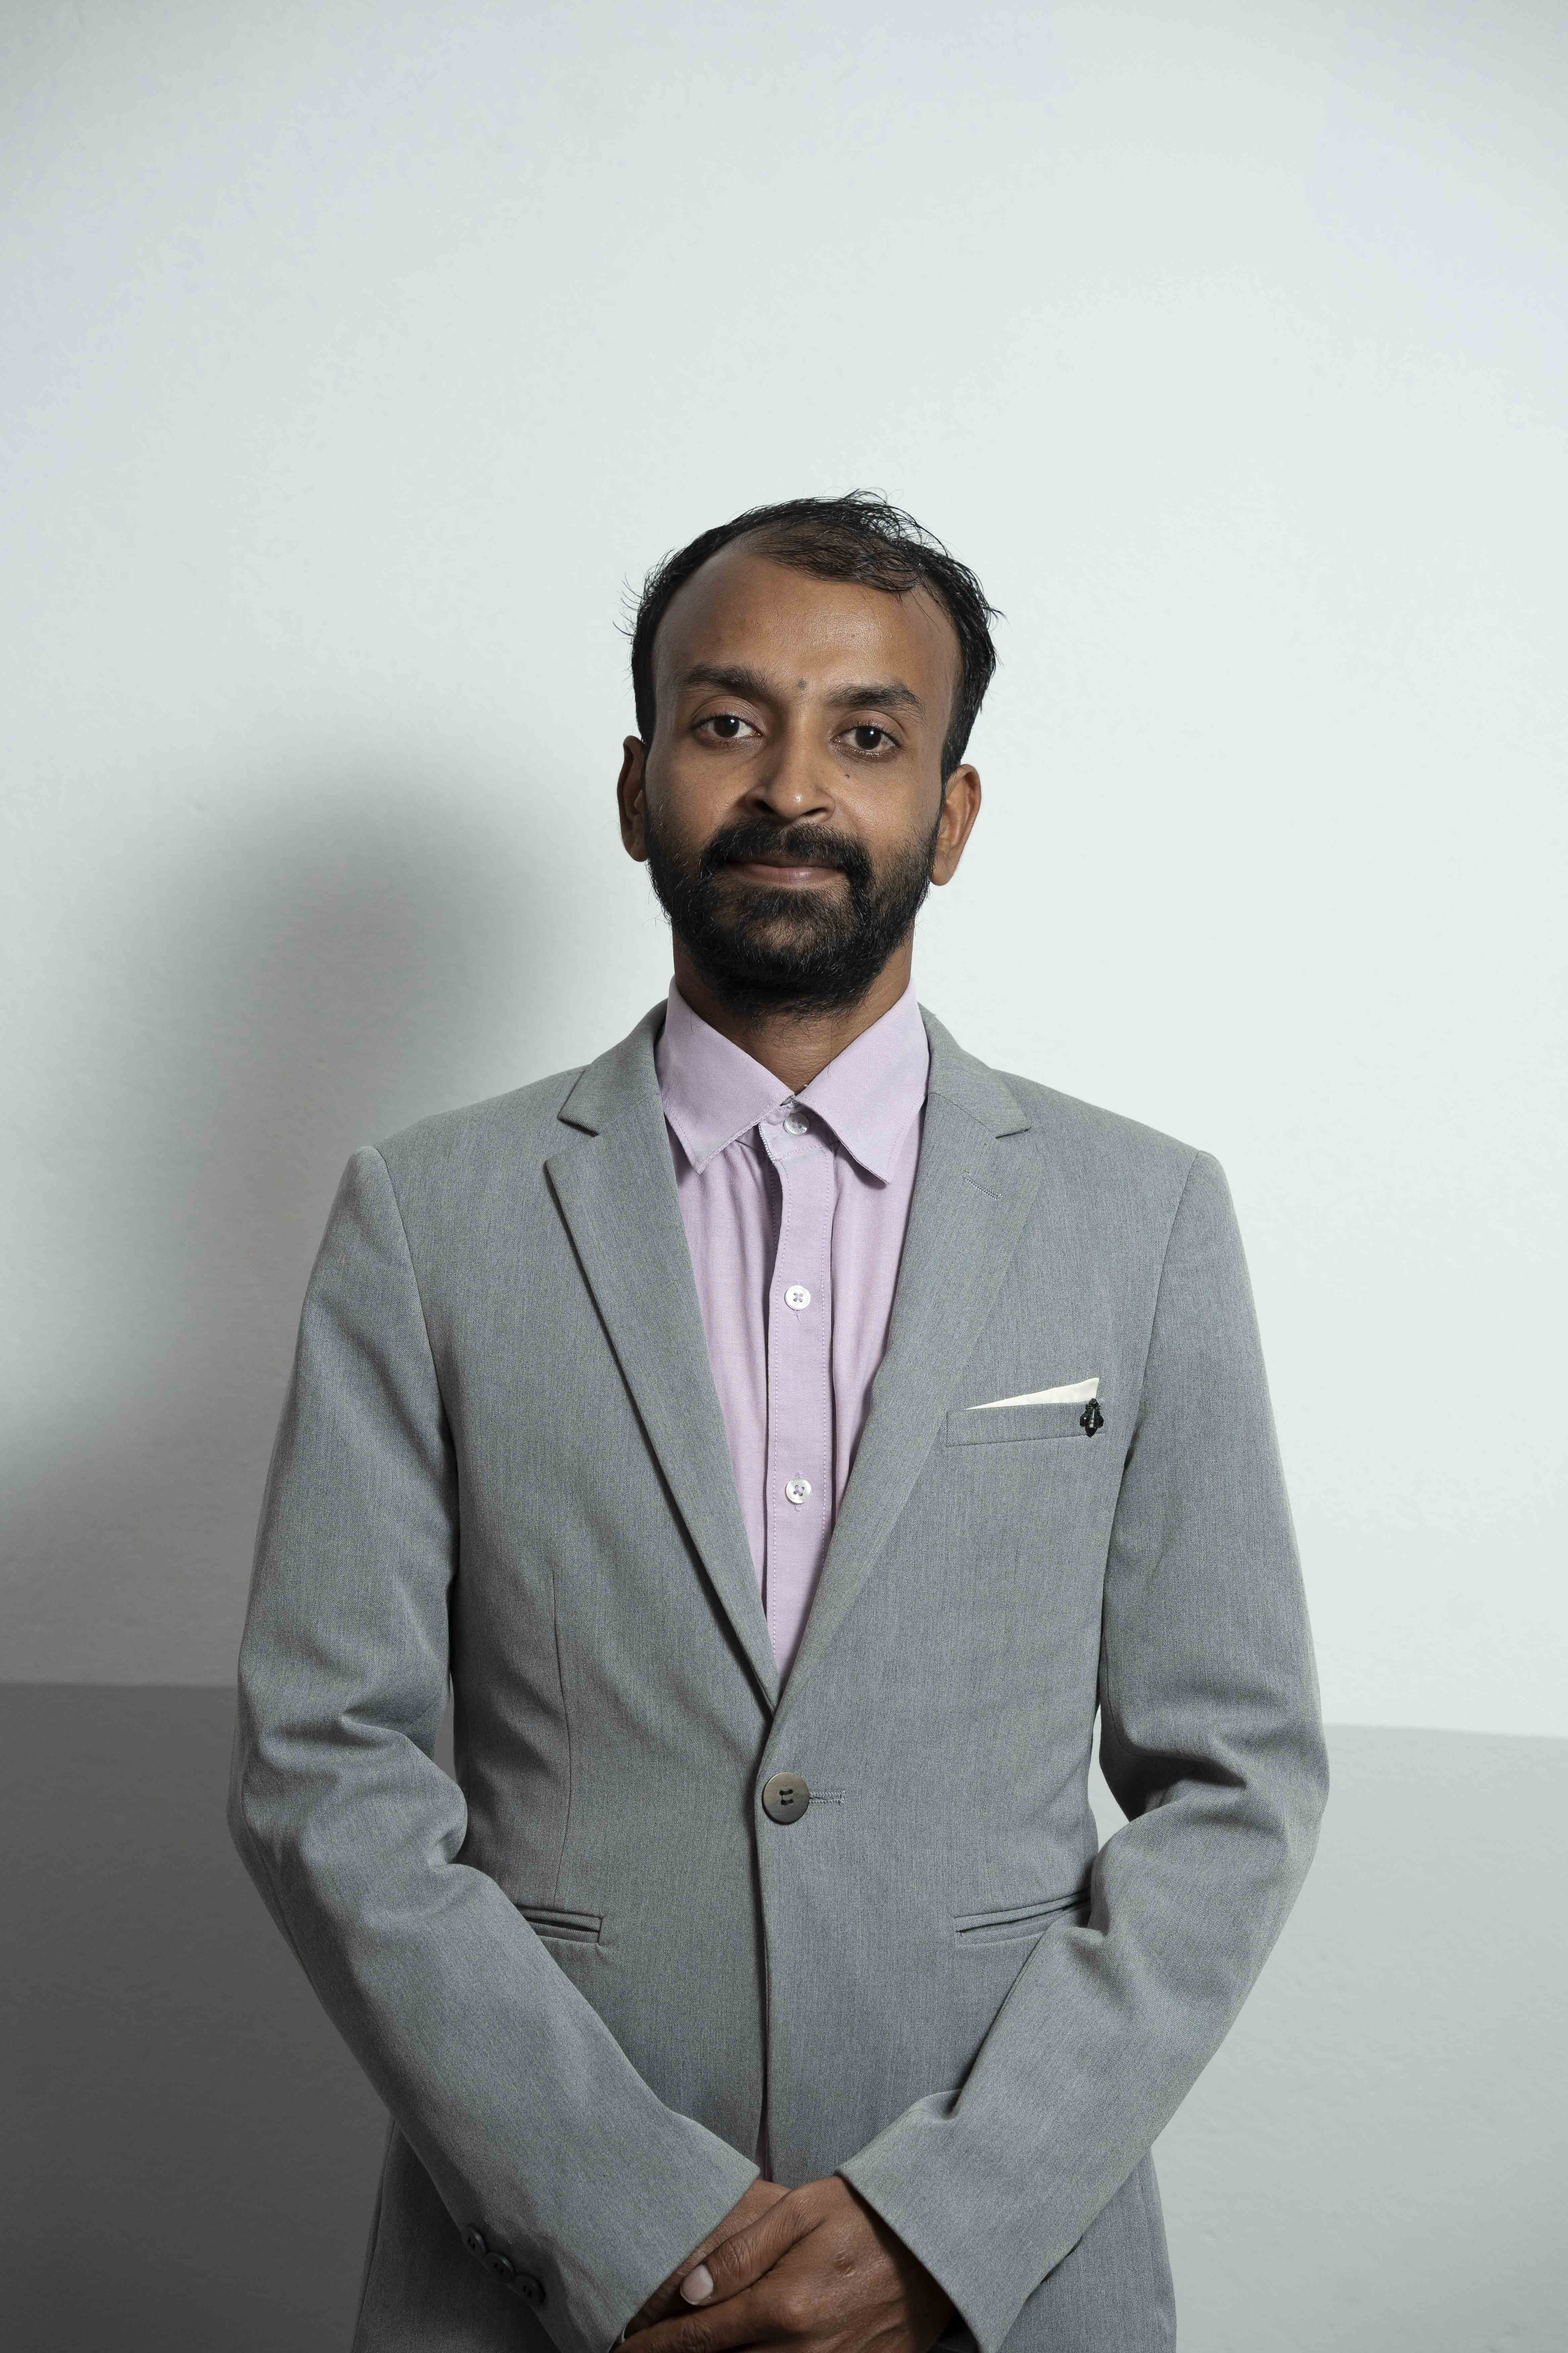
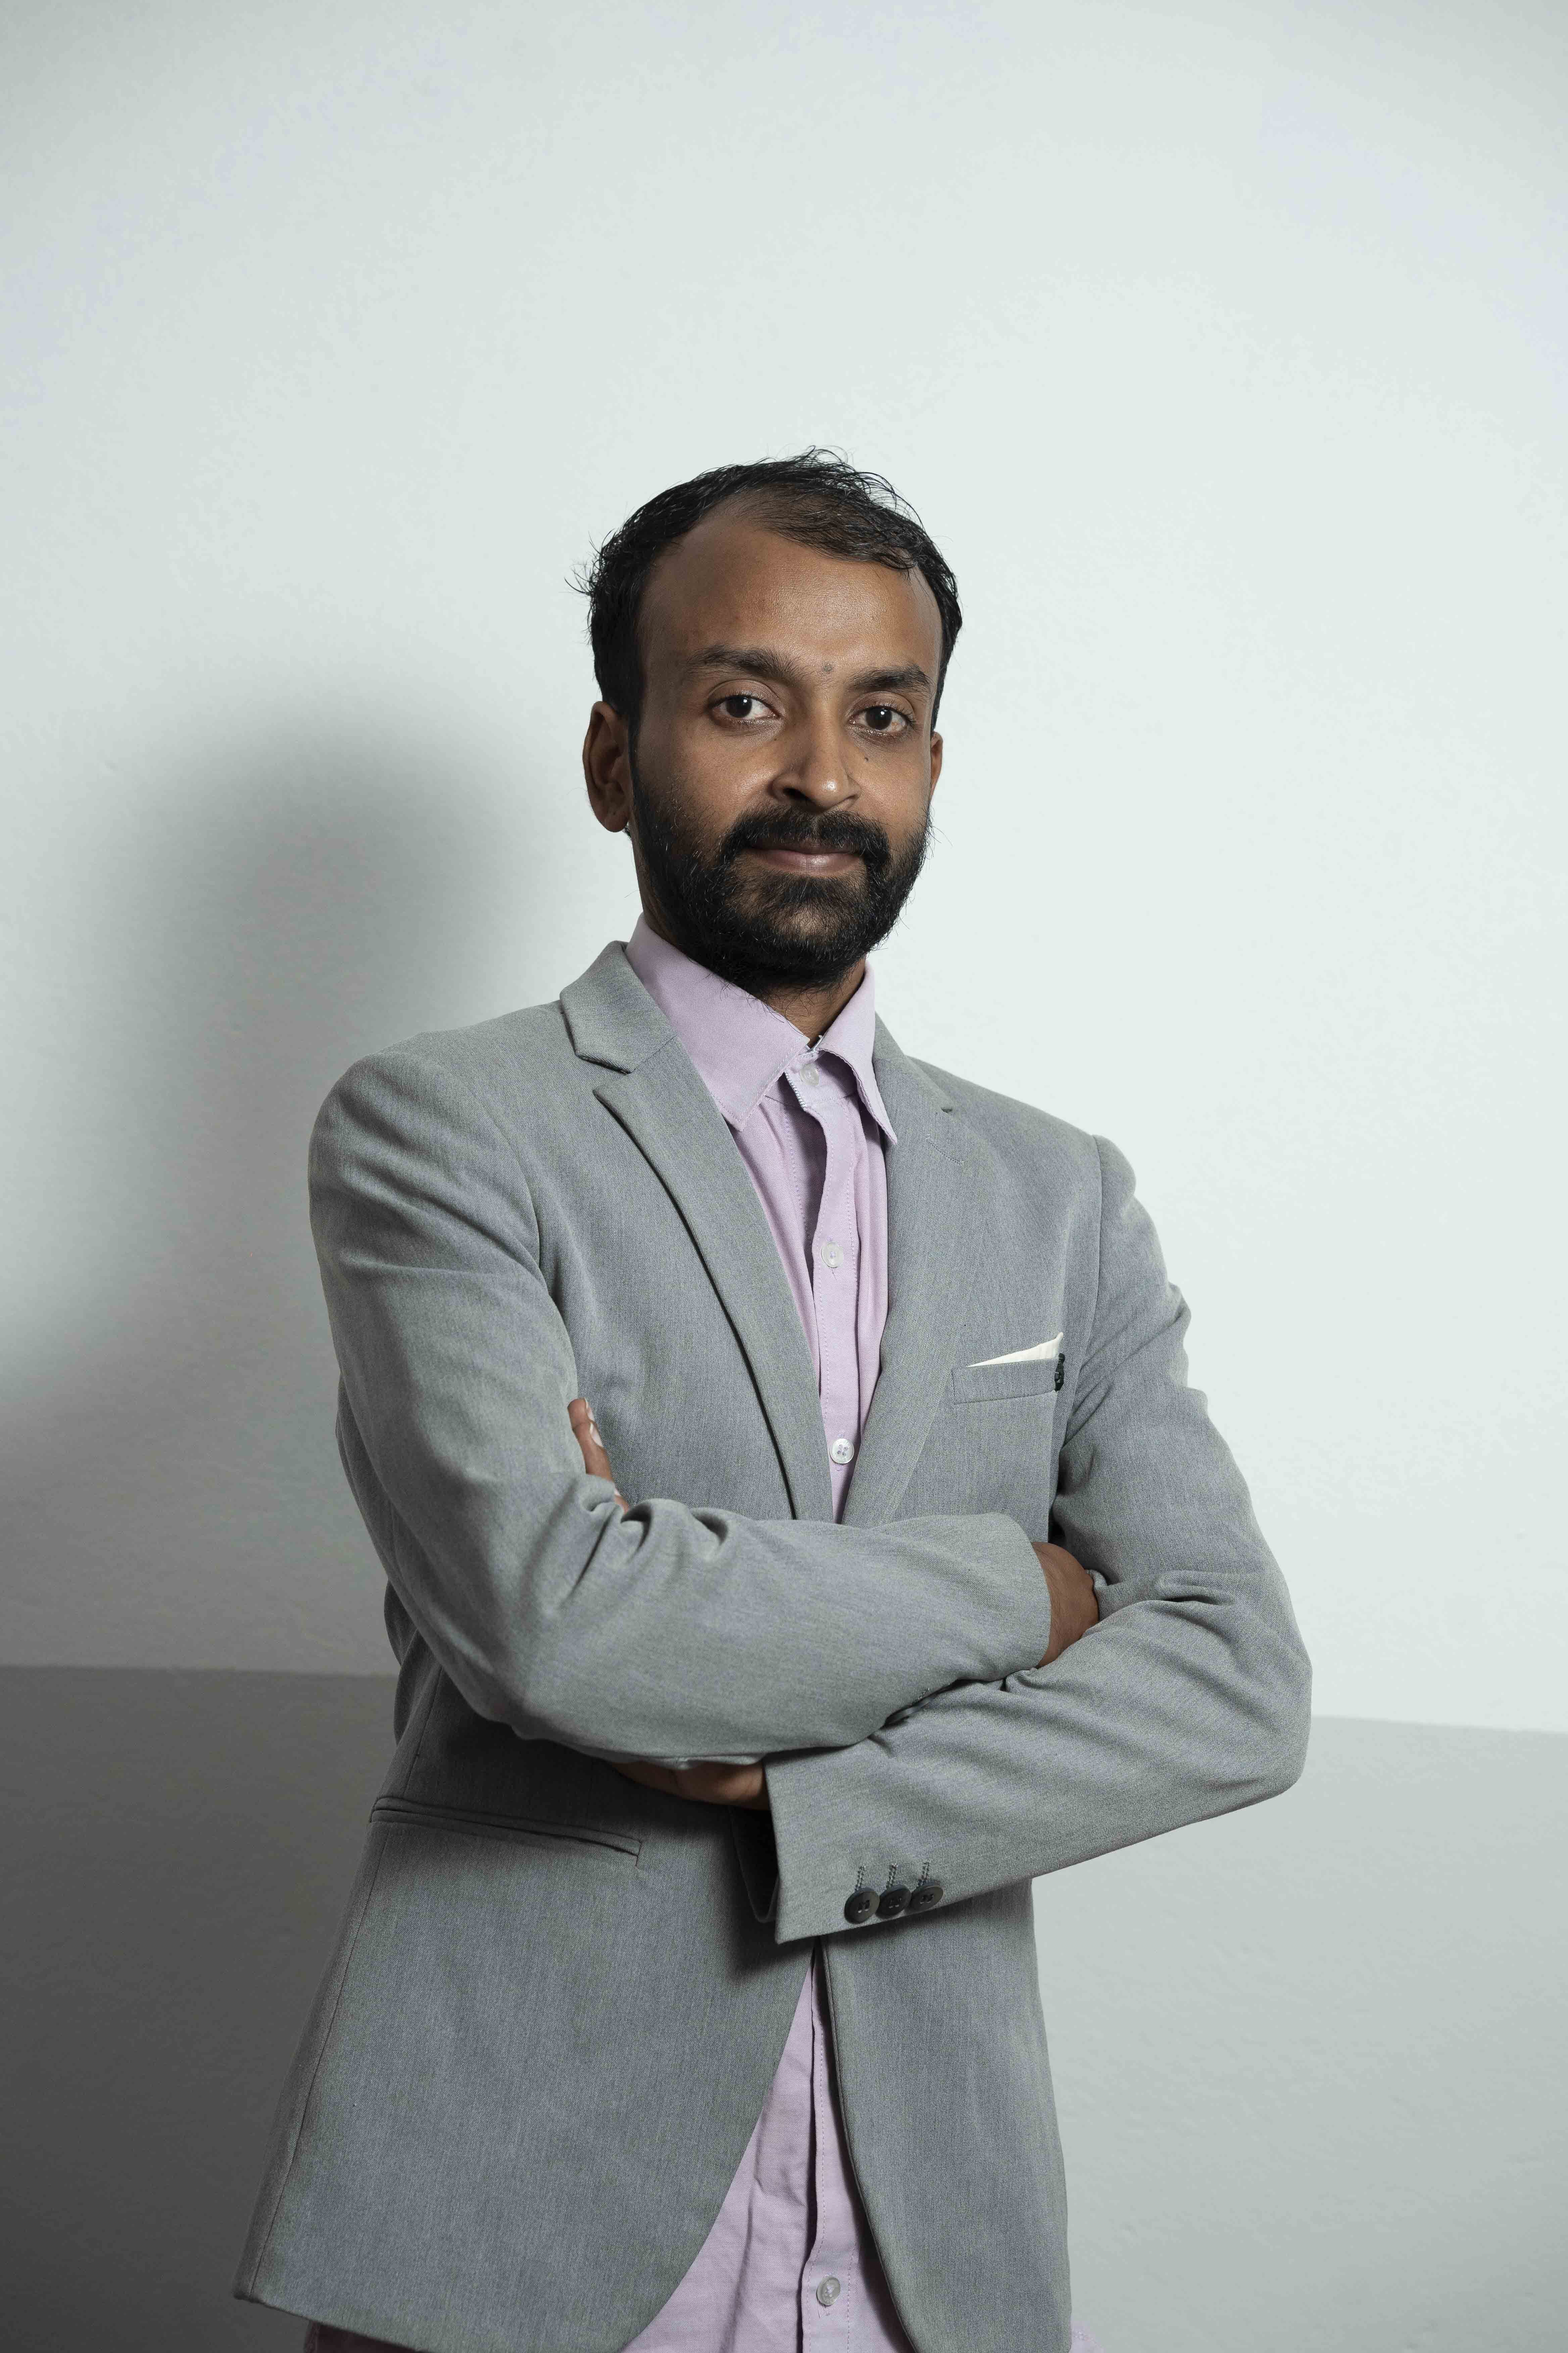
Changed Images and contents

Changed region(s): [[0.1562, 0.1875, 0.8438, 1.0], [0.125, 0.3125, 0.2188, 0.375], [0.0, 0.5625, 0.0938, 0.625]]

diff --git a/app/_sections/ManagementSection.tsx b/app/_sections/ManagementSection.tsx
@@ -1,8 +1,9 @@
 import React from "react";
 import ManagementCard from "@/_components/Management/ManagementCard";
-import RudraSirImage from "@/_assets/images/rudrasir.png"
-import QuotationImage from "@/_assets/images/quotation.png"
-import NirmalSirImage from "@/_assets/images/Nirmalsir.png"
+import RudraSirImage from "@/_assets/images/rudrasir.png";
+import QuotationImage from "@/_assets/images/quotation.png";
+import NirmalSirImage from "@/_assets/images/Nirmalsir.png";
+import HiteshSirImage from "@/_assets/images/Hitesh Karki.jpg"
 
 export default function ManagementSection() {
   return (
@@ -10,7 +11,7 @@ export default function ManagementSection() {
       <ManagementCard
         classNameOne="flex xl:flex-row flex-col max-w-[79.28rem] h-full xl:gap-20 gap-10 items-center"
         image1={RudraSirImage}
-        image2 = {QuotationImage}
+        image2={QuotationImage}
         description="At Deerwalk Sifal School, we take a holistic approach to education. While we strive for excellence in academics, our mission extends beyond that: We teach our students the soft and hard skills they need to become confident and curious citizens of the world."
         desc="
         We focus on reading, writing and coding. Reading a range of texts — fiction, non-fiction, poetry and beyond — helps students expand their vocabularies and become clearer thinkers and writers. Reading and writing skills go hand-in-hand. Students use what they’ve learned from reading to further hone their analytical and creative writing skills and become better communicators. Coding teaches students the art of problem-solving."
@@ -19,8 +20,20 @@ export default function ManagementSection() {
       />
       <ManagementCard
         classNameOne="flex xl:flex-row-reverse flex-col max-w-[79.28rem] h-full xl:gap-20 gap-10 items-center"
+        image1={HiteshSirImage}
+        image2={QuotationImage}
+        description="Deerwalk Dhading School, the second school established by the Deerwalk Group, is dedicated to providing an exceptional educational experience to the people of Dhading, an opportunity previously centered around Kathmandu.
+
+        With a super clean and green campus, excellent facilities, and highly trained teachers, the school strives to create a meaningful learning environment. Inspired by Deerwalk's philosophy of empowering students to excel in their chosen fields, we place a strong emphasis on developing skills in reading, writing, and coding. We firmly believe these skills enable our students to effectively articulate their ideas—both in written and spoken formats—and enhance their problem-solving abilities.
+
+        Uniquely, our school does not enforce uniforms, reflecting our commitment to nurturing the individuality of each student. We believe our role is to foster an environment that supports the personal and intellectual growth of every learner."
+        name="Hitesh Karki"
+        rank="- Chairperson"
+      />
+      <ManagementCard
+        classNameOne="flex xl:flex-row flex-col max-w-[79.28rem] h-full xl:gap-20 gap-10 items-center"
         image1={NirmalSirImage}
-        image2 = {QuotationImage}
+        image2={QuotationImage}
         description="Deerwalk Dhading School (DDS) is committed to fostering a culture of learning and inspiration. 
         Our campus community places a strong emphasis on knowledge acquisition while upholding high standards in academics. 
         We focus on four key pillars: Essential Skills, Language Proficiency, Academic Foundations, and Excellence in Extracurricular Activities (ECA), ensuring a well-rounded education for our students. 
@@ -28,6 +41,7 @@ export default function ManagementSection() {
         name="Nirmal Kumar Paudel"
         rank="- Principal"
       />
+      
     </div>
   );
 }
